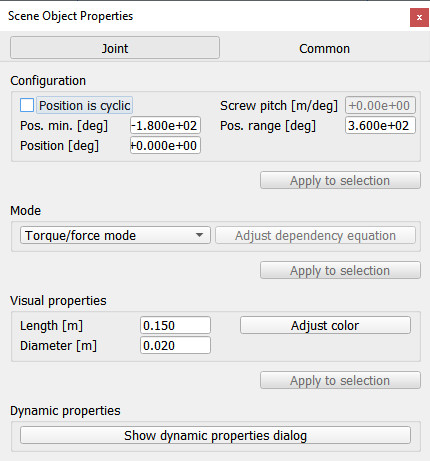
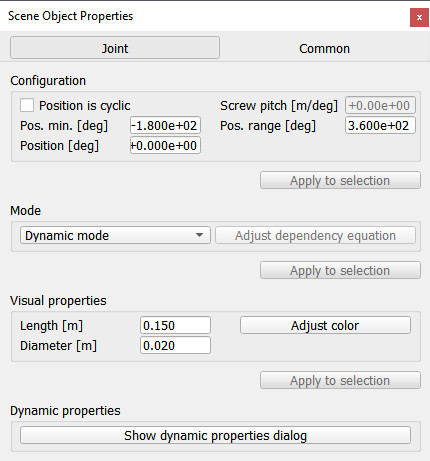
joint mode: passive --> kinematic, force/torque --> dynamic

Changed region(s): [[0.0605, 0.4859, 0.3326, 0.5466], [0.0302, 0.2126, 0.3023, 0.243]]

diff --git a/en/jointDescription.htm b/en/jointDescription.htm
@@ -20,7 +20,9 @@
 <h1>Joint types and operation</h1>
 
 
-<p>Compared to another <a href="objects.htm">object</a>, a <a href="joints.htm">joint</a> has two reference frames (visible only if the joint is selected). The first one is the regular reference frame that is fixed and that other objects also have. The second reference frame is not fixed, and will move relative to the first reference frame depending on the joint position (or joint value) that defines its configuration.</p>
+<p>A joint is used to allow for a relative movement between its parent and its children. When a parent-child relationship is built between a joint and an object, the object is attached to the joint's second reference frame, thus, a change of the joint's configuration (intrinsic position) will directly be reflected onto its children. New joints can be added to a <a href="scenes.htm">scene</a> with [Menu bar --&gt; Add --&gt; Joints].
+</p>
+
 
 <br>
 <h2>
@@ -33,16 +35,16 @@
 <p class=imageLabel>[Revolute joint, prismatic joint, screw and spherical joint]</p>
 <br>
 
-<li><strong>Revolute joints</strong>: revolute joints have one DoF and are used to describe rotational movements (with 1 DoF) between objects. Their configuration is defined by one value that represents the amount of rotation about their first reference frame's z-axis. They can be used as passive joints, or as active joints (motors).<br>
+<li><strong>Revolute joints</strong>: revolute joints have one DoF and are used to describe rotational movements (with 1 DoF) between objects. Their configuration is defined by one value that represents the amount of rotation about their first reference frame's z-axis<br>
 </li>
 
-<li><strong>Prismatic joints</strong>: prismatic joints have one DoF and are used to describe translational movements between objects. Their configuration is defined by one value that represents the amount of translation along their first reference frame's z-axis. They can be used as passive joints, or as active joints (motors).<br>
+<li><strong>Prismatic joints</strong>: prismatic joints have one DoF and are used to describe translational movements between objects. Their configuration is defined by one value that represents the amount of translation along their first reference frame's z-axis<br>
 </li>
 
-<li><strong>Screws</strong>: screws, which can be seen as a combination of revolute joints and prismatic joints (with linked values), have one DoF and are used to describe a movement similar to a screw. A pitch parameter defines the amount of translation for a given amount of rotation. A screw configuration is defined by one value that represents the amount of rotation about its first reference frame's z-axis. Screws can be used as passive joints, or as active joints (motors).<br>
+<li><strong>Screws</strong>: screws, which can be seen as a combination of revolute joints and prismatic joints (with linked values), have one DoF and are used to describe a movement similar to a screw. A pitch parameter defines the amount of translation for a given amount of rotation. A screw configuration is defined by one value that represents the amount of rotation about its first reference frame's z-axis<br>
 </li>
 
-<li><strong>Spherical joints</strong>: spherical joints have three DoF and are used to describe rotational movements (with 3 DoF) between objects. Their configuration is defined by three values that represent the amount of rotation around their first reference frame's x-, y- and z-axis. The three values that define a spherical joint's configuration are specified as <a href="eulerAngles.htm">Euler angles</a>. In some situations, a spherical joint can be thought of as 3 concurrent and orthogonal to each other joints, that are parented in a hierarchy-chain. The analogy is however only valid while all revolute joints keep an orientation distinct from any of the two others: indeed, should two joints come close to coincide, a singular situation might appear and the mechanism might lose one DoF. This does never happen with spherical joints that are internally handled to avoid this kind of situation. Spherical joints are always passive joints, and cannot act as motors. </li>
+<li><strong>Spherical joints</strong>: spherical joints have three DoF and are used to describe rotational movements (with 3 DoF) between objects. In some situations, a spherical joint can be thought of as 3 concurrent and orthogonal to each other joints, that are parented in a hierarchy-chain. The analogy is however only valid while all revolute joints keep an orientation distinct from any of the two others: indeed, should two joints come close to coincide, a singular situation might appear and the mechanism might lose one DoF. This does never happen with spherical joints that are internally handled to avoid this kind of situation </li>
 
 <p align=center><img src="images/jointDescription2.jpg"></p>
 <p class=imageLabel>[Two equivalent mechanisms (in this configuration): spherical joint (left) and 3 revolute joints (right)]</p>
@@ -53,9 +55,6 @@
 <p class=imageLabel>[Two non-equivalent mechanisms: the right configuration is close to a singularity]</p>
 <br>
 
-<p>A joint is used to allow for a relative movement between its parent and its children. When a parent-child relationship is built between a joint and an object, the object is attached to the joint's second reference frame, thus, a change of the joint's configuration (intrinsic position) will directly be reflected onto its children. New joints can be added to a <a href="scenes.htm">scene</a> with [Menu bar --&gt; Add --&gt; Joints].
-</p>
-
 <br>
 <h2>
 <a name="modes"></a>Joint modes
@@ -64,13 +63,13 @@
 <p>A joint can be in one of following modes:
 </p>
 
-<li><strong>Passive mode</strong>: in this mode the joint is not directly controlled and will act as a fixed link. The user can however change the joint's position with appropriate <a href="apisOverview.htm">API</a> function calls (e.g. <a href="regularApi/simSetJointPosition.htm">sim.setJointPositon</a> or <a href="regularApi/simSetObjectChildPose.htm">sim.setObjectChildPose</a>).<br>
+<li><strong>Kinematic mode</strong>: in this mode the joint is not directly controlled and will act as a fixed link. The user can however change the joint's position with appropriate <a href="apisOverview.htm">API</a> function calls (e.g. <a href="regularApi/simSetJointPosition.htm">sim.setJointPositon</a> or <a href="regularApi/simSetObjectChildPose.htm">sim.setObjectChildPose</a>).<br>
 </li>
 
 <li><strong>Dependent mode</strong>: in this mode, the joint position is directly linked (dependent) to another joint position through a linear equation.<br>
 </li>
 
-<li><strong>Torque or force mode</strong>: in this mode, the joint is simulated by the <a href="dynamicsModule.htm">dynamics module</a>, if and only if it is dynamically enabled (refer to the section on <a href="designingDynamicSimulations.htm">designing dynamic simulations</a> for more information). When dynamically enabled, a joint can be free or controlled in Force/torque, in velocity or in position. Screws cannot be operated in torque or force mode (however it is possible to obtain a similar behaviour by linking a revolute and prismatic joint programmatically), and spherical joints can only be free in torque or force mode.
+<li><strong>Dynamic mode</strong>: in this mode, the joint is handled by the <a href="dynamicsModule.htm">dynamics module</a>, if it forms with its connecting items a valid configuration. When dynamically enabled, a joint can be free or controlled in force/torque, in velocity or in position. 
 </li>
 
 <li class=tabTab>When the joint motor is disabled, the joint is free and only constrained by its limits.
@@ -81,7 +80,7 @@
 
 <li class=tabTab>When the joint motor is enabled and the control loop is enabled, then the user has 3 control modes available:</li>
 
-<li class=fourTabs><em>Custom control</em>: a <a href="jointCallbackFunctions.htm">joint callback function</a> will be in charge of controlling the dynamic behaviour of the joint, allowing you to control the joint with any imaginable algorithm. </li>
+<li class=fourTabs><em>Custom control</em>: a <a href="jointCallbackFunctions.htm">joint callback function</a> will be in charge of controlling the dynamic behaviour of the joint, allowing to control the joint with any desired algorithm. </li>
 
 
 <li class=fourTabs><em>Position control (PID)</em>: the joint will be controlled in position via a PID controller that will adjust the joint velocity in following way (the <em>&#916;t</em> divider is to keep the controller independent of the selected controller time step): </li>
@@ -105,12 +104,10 @@
 
 <p>First, the approach to take for controlling a joint will depend on the joint mode:</p>
 
-<li><a href="#nonForceTorqueMode">The joint is not in force/torque mode</a>.</li>
-<li><a href="#forceTorqueMode">The joint operates in force/torque mode</a>.</li>
+<li><a href="#kinematic">The joint is in kinematic mode</a></li>
+<li><a href="#dynamic">The joint is in dynamic mode</a></li>
 
-<p>The differentiation comes from the fact that a joint that operates in force/torque mode will be handled by the physics engine. And the physics engine will perform by default 10 times more calculation steps than the simulation loop: the simulation loop runs at 20Hz (in simulation time), while the physics engine runs at 200Hz (also in simulation time). That default behaviour can entirely be configured if required.</p>
-
-<p><strong><a name="nonForceTorqueMode"></a>If the joint is not in force/torque mode</strong>: if the joint is not in force/torque mode, then you can directly (and instantaneously) set its position via the <a href="regularApi/simSetJointPosition.htm">sim.setJointPosition</a> API function. You can do this from a <a href="childScripts.htm">child script</a>, from a <a href="plugins.htm">plugin</a>, from a <a href="rosInterfaces.htm">ROS</a> node, or from a <a href="remoteApiOverview.htm">remote API</a> client. If you do this from a child script, then it should be done inside of the <em>actuation section</em> of the <a href="childScripts.htm">child script</a>.</p>
+<p><strong><a name="nonForceTorqueMode"></a><a name="kinematic"></a>The joint is in kinematic mode</strong>: in this situation, the joint can directly (and instantaneously) be controlled, i.e. set it to a desired position via <a href="regularApi/simSetJointPosition.htm">sim.setJointPosition</a>. This can be done from a <a href="childScripts.htm">child script</a>, from a <a href="plugins.htm">plugin</a>, from a <a href="rosInterfaces.htm">ROS</a> node, or from a <a href="remoteApiOverview.htm">remote API</a> client. If done from a child script, then it should be done inside of the <em>actuation section</em> of the <a href="childScripts.htm">child script</a>.</p>
 
 <p>In following threaded <a href="childScripts.htm">child script</a> example, the joint is controlled <em><strong>loosely</strong></em>  in position, and there is no synchronization with the simulation loop:</p>
 
@@ -146,7 +143,7 @@ sim.setThreadAutomaticSwitch(initialForbidLevel) -- Restore the automatic thread
 -- In above code, a new joint position is applied in each simulation step
 </code>
 
-<p>When you try to control a joint that is not in force/torque mode from an external application (e.g. via the <a href="remoteApiOverview.htm">remote API</a> or <a href="rosInterfaces.htm">ROS</a>), then the external controller will run asynchronously to CoppeliaSim (i.e. similar to the non-synchronized code of a threaded <a href="childScripts.htm">child script</a>). This is fine most of the time for <strong><em>loose</em></strong> control, but if you wish to control the position of the joint <strong><em>precisely</em></strong> in each simulation loop, you will have to run CoppeliaSim in stepped mode, and the external controller (e.g. the remote API client) will have to trigger each simulation step explicitely. </p>
+<p>When controlling a joint that is kinematic mode from an external application (e.g. via the <a href="remoteApiOverview.htm">remote API</a> or <a href="rosInterfaces.htm">ROS</a>), then the external controller will run asynchronously to CoppeliaSim (i.e. similar to the non-synchronized code of a threaded <a href="childScripts.htm">child script</a>). This is fine most of the time for <strong><em>loose</em></strong> control, but for <em><strong>precise</strong></em> control (in each simulation loop), CoppeliaSim should run in stepped mode, and the external controller (e.g. the remote API client) will have to trigger each simulation step explicitely. </p>
 <p>Following illustrates a Python <a href="zmqRemoteApiOverview.htm">ZeroMQ remote API</a> client that does this:</p>
 
 <code class="hljs language-python coppelia-zmq-remote-api-client">
@@ -159,16 +156,16 @@ client.step() # next simulation step executes. Above commands will be applied
 sim.setJointPosition(jointHandle,0) # set the joint to 0 degrees
 </code>
 
-<p><strong><a name="forceTorqueMode"></a>If the joint is in force/torque mode</strong>: if the joint operates in force/torque mode and is <a href="designingDynamicSimulations.htm#dynamicallyEnabledJoints">dynamically enabled</a>, then it will be indirectly handled by the physics engine. If your joint's motor is not enabled, then your joint is not controlled (i.e. it will be free). Otherwise, your joint can be in following two dynamic modes:</p>
+<p><strong><a name="forceTorqueMode"></a><a name="dynamic"></a>The joint is in dynamic mode</strong>: in this situation, and if additionally the joint is <a href="designingDynamicSimulations.htm#dynamicallyEnabledJoints">dynamically enabled</a>, then it will be indirectly handled by the physics engine. If the joint's motor is not enabled, then it is free or passive. Otherwise, the joint can operate in following two manners:</p>
 
-<li><a href="#controlLoopDisabled">The joint's motor is enabled, but the control loop is disabled</a>. Use this mode when you want to <strong><em>precisely</em></strong> custom control your joint from an external application (e.g. force/torque control, PID, etc.). Use this mode also, when you want to <em><strong>loosely</strong></em>  control your joint in force/torque mode, or for velocity control (e.g. robot wheel motors).</li>
-<li><a href="#controlLoopEnabled">The joint's motor is enabled, and the control loop is enabled</a>. Use this mode when your joint needs to act as a spring/damper, or if you want to <strong><em>precisely</em></strong> custom control your joint from within CoppeliaSim, or if you want to <em><strong>loosely</strong></em>  control your joint in position control from an external application.</li>
+<li><a href="#controlLoopDisabled">The joint's motor is enabled, but the control loop is disabled</a>. This is used when wanting  to <strong><em>precisely</em></strong> custom control a joint from an external application (e.g. force/torque control, PID, etc.). This method is also used, when wanting to <em><strong>loosely</strong></em>  control a joint in force/torque, or for velocity control (e.g. robot wheel motors).</li>
+<li><a href="#controlLoopEnabled">The joint's motor is enabled, and the control loop is enabled</a>. This is used when the joint needs to act as a spring/damper, or when wanting to <strong><em>precisely</em></strong> custom control the joint from within CoppeliaSim, or when wanting to <em><strong>loosely</strong></em>  control a joint in position control from an external application.</li>
 
-<p><a name="controlLoopDisabled"></a>If your <strong>joint's motor is enabled, but the control loop is disabled</strong>, then the physics engine will apply the specified <strong>Maximum force/torque</strong>, and accelerate the joint until the <strong>target velocity</strong> is reached. If the load is small and/or the maximum force/torque high, that target velocity will be reached quickly. Otherwise, it will take some time, or, if the force/torque is not large enough, the target velocity will never be reached. You can programmatically adjust the target velocity with <a href="regularApi/simSetJointTargetVelocity.htm">sim.setJointTargetVelocity</a>, and the maximum force/torque with <a href="regularApi/simSetJointTargetForce.htm">sim.setJointTargetForce</a>. You should be very careful before writing  a <strong><em>precise</em></strong> joint controller for a joint in force/torque mode from a <a href="childScripts.htm">child script</a> for following reason:</p>
+<p><a name="controlLoopDisabled"></a>If the <strong>joint motor is enabled, but the control loop is disabled</strong>, then the physics engine will apply the specified <strong>Maximum force/torque</strong>, and accelerate the joint until the <strong>target velocity</strong> is reached. If the load is small and/or the maximum force/torque high, that target velocity will be reached quickly. Otherwise, it will take some time, or, if the force/torque is not large enough, the target velocity will never be reached. The target velocity can programmatically be adjusted with <a href="regularApi/simSetJointTargetVelocity.htm">sim.setJointTargetVelocity</a>, and the maximum force/torque with <a href="regularApi/simSetJointTargetForce.htm">sim.setJointTargetForce</a>. When writing a <strong><em>precise</em></strong> joint controller for a joint in dynamic mode from a <a href="childScripts.htm">child script</a>, beware of following:</p>
 
-<p>By default, the simulation loop runs with a time step of 50ms (in simulation time). But the physics engine will run with a time step of 5ms, i.e. 10 times more often. A child script will be called in each simulation step, but not in each physics engine calculation step. This means that if you control a joint from a child script in a <em>regular way</em>, you will only be able to provide new control values once for 10 physics engine calculation steps: you will be missing 9 steps. One way to overcome this would be to change the default <a href="simulationPropertiesDialog.htm">simulation settings</a> and to specify a simulation <strong>time step</strong> of 5ms, instead of 50ms. This works fine, but remember that all other calculations (e.g. <a href="visionSensors.htm">vision sensors</a>, <a href="proximitySensors.htm">proximity sensors</a>, <a href="distanceCalculation.htm">distance calculations</a>, <a href="kinematics.htm">IK</a>, etc.) will also run 10 times more often, and finally slow down your simulation (most of the time you won't need such a high refresh rate for the other calculation modules. But the physics engine requires such a high refresh rate). Another, much better option, would be to use a <a href="jointCallbackFunctions.htm">joint callback function</a> (or a <a href="dynCallbackFunctions.htm">dynamics callback function</a>) as will be explained further down.</p>
+<p>By default, the simulation loop runs with a time step of 50ms (in simulation time). But the physics engine will run with a time step of 5ms, i.e. 10 times more often. A child script will be called in each simulation step, but not in each physics engine calculation step. This means that if a joint is controlled from a child script in a <em>regular way</em>, the control algorithm will only be able to provide new control values once for 10 physics engine calculation steps: 9 out of 10 steps will be missed. One way to overcome this would be to change the default <a href="simulationPropertiesDialog.htm">simulation settings</a> and to specify a simulation <strong>time step</strong> of 5ms, instead of 50ms. This works fine, one should remember that all other calculations (e.g. <a href="visionSensors.htm">vision sensors</a>, <a href="proximitySensors.htm">proximity sensors</a>, <a href="distanceCalculation.htm">distance calculations</a>, <a href="kinematics.htm">IK</a>, etc.) will also run 10 times more often, and finally slow down your simulation. Another, much better option, would be to use a <a href="jointCallbackFunctions.htm">joint callback function</a> (or a <a href="dynCallbackFunctions.htm">dynamics callback function</a>) as will be explained further down.</p>
 
-<p>If, one the other hand, you want to run a <em><strong>precise</strong></em> and regular joint controller externally (e.g. from a <a href="remoteApiOverview.htm">remote API</a> client or a <a href="rosInterfaces.htm">ROS</a> node), then you have no other option than to set the simulation loop to the same rate as the physics engine rate, then run CoppeliaSim in stepped mode, and the external controller (e.g. the remote API client) will have to trigger each simulation step explicitely. </p>
+<p>If, one the other hand, one wants to run a <em><strong>precise</strong></em> and regular joint controller externally (e.g. from a <a href="remoteApiOverview.htm">remote API</a> client or a <a href="rosInterfaces.htm">ROS</a> node), then there is no other option than to set the simulation loop to the same rate as the physics engine rate, then run CoppeliaSim in stepped mode, and the external controller (e.g. the remote API client) will have to trigger each simulation step explicitely. </p>
 
 <p>Following illustrates a Python <a href="zmqRemoteApiOverview.htm">ZeroMQ remote API</a> client that does this:</p>
 
@@ -185,9 +182,9 @@ sim.setJointTargetForce(jointHandle,2.0,false)
 sim.setJointTargetVelocity(jointHandle,180*3.1415/180) # set the joint target velocity
 </code>
 
-<p><a name="controlLoopEnabled"></a>If your <strong>joint's motor is enabled, and the control loop is also enabled</strong>, then the physics engine will handle the joint according to the setting: your joint can operate in position control (i.e. PID control), in a spring/damper mode, or in custom control. PID and spring/damper parameters can be updated from a <a href="childScripts.htm">child script</a>, from a <a href="remoteApiOverview.htm">remote API</a> client or from a <a href="rosInterfaces.htm">ROS</a> node. Refer to <a href="objectParameterIDs.htm">object parameter IDs</a> 2002-2004, and 2018-2019. Desired target positions can be set with <a href="regularApi/simSetJointTargetPosition.htm">sim.setJointTargetPosition</a>. When you need a <em><strong>precise</strong></em> custom controller, then you should use a <a href="jointCallbackFunctions.htm">joint callback function</a> instead (or a <a href="dynCallbackFunctions.htm">dynamics callback function</a>).</p>
+<p><a name="controlLoopEnabled"></a>If the <strong>joint motor is enabled, and the control loop is also enabled</strong>, then the physics engine will handle the joint according to the setting: the joint can operate in position control (i.e. PID control), in a spring/damper mode, or in custom control. PID and spring/damper parameters can be updated from a <a href="childScripts.htm">child script</a>, from a <a href="remoteApiOverview.htm">remote API</a> client or from a <a href="rosInterfaces.htm">ROS</a> node. Refer to <a href="objectParameterIDs.htm">object parameter IDs</a> sim.jointfloatparam_pid_p, sim.jointfloatparam_pid_i, sim.jointfloatparam_pid_d, and sim.jointfloatparam_kc_k and sim.jointfloatparam_kc_c. Desired target positions can be set with <a href="regularApi/simSetJointTargetPosition.htm">sim.setJointTargetPosition</a>. When in need for a <em><strong>precise</strong></em> custom controller, then a <a href="jointCallbackFunctions.htm">joint callback function</a> should be used instead.</p>
 
-<p>Finally, if you need a precise PID or custom controller that is implemented in an external application, you need to make sure that the simulation step is the same as the physics engine calculation step: by default, CoppeliaSim's simulation loop runs at 20Hz (in simulation time), while the physics engine runs at 200Hz. You can adjust the simulation step size in the <a href="simulationPropertiesDialog.htm">simulation setting</a>. You also need to make sure you run CoppeliaSim in stepped mode. </p>
+<p>Finally, when in need of a precise PID or custom controller that is implemented in an external application, one needs to make sure that the simulation step is the same as the physics engine calculation step: by default, CoppeliaSim's simulation loop runs at 20Hz (in simulation time), while the physics engine runs at 200Hz. The simulation step size can be adjusted in the <a href="simulationPropertiesDialog.htm">simulation setting</a>. And CoppeliaSim should run in stepped mode. </p>
 <p>Following illustrates a Python <a href="zmqRemoteApiOverview.htm">ZeroMQ remote API</a> client that does this:</p>
 
 <code class="hljs language-python coppelia-zmq-remote-api-client">
@@ -200,7 +197,7 @@ client.step()
 sim.setJointTargetPosition(jointHandle,0)
 </code>
 
-<p>You can also have a remote API client provide control values for a custom joint controller implemented in a joint callback function, by providing values, for instance via signals, to that joint callback function. For example, from a Python <a href="zmqRemoteApiOverview.htm">ZeroMQ remote API</a> client:</p>
+<p>One can also have a remote API client provide control values for a custom joint controller implemented in a joint callback function, by providing values, for instance via signals, to that joint callback function. For example, from a Python <a href="zmqRemoteApiOverview.htm">ZeroMQ remote API</a> client:</p>
 
 <code class="hljs language-python coppelia-zmq-remote-api-client">
 client.setstepping(True)
@@ -210,7 +207,7 @@ sim.setFloatSignal("myDesiredTarget",90.0*3.1415/180.0)
 client.step()
 </code>
 
-<p>In above example, your joint callback function could fetch those two signals (with <a href="regularApi/simGetFloatSignal.htm">sim.getFloatSignal</a>) before doing the control.</p>
+<p>In above example, the joint callback function could fetch those two signals (with <a href="regularApi/simGetFloatSignal.htm">sim.getFloatSignal</a>) before doing the control.</p>
 
 
 <br>

diff --git a/en/xmlFormat.htm b/en/xmlFormat.htm
@@ -124,21 +124,21 @@
 
 
 
-<p>Here a revolute joint, in passive mode:</p>
-<pre class=lightGreyBox>&lt;joint&gt;<br>  &lt;common&gt;<br>    ... <font color="green">(refer to generated files for details)</font><br>  &lt;/common&gt;<br>  &lt;type&gt;revolute&lt;/type&gt; <font color="green">(can be revolute, prismatic or spherical)</font><br>  &lt;mode&gt;passive&lt;/mode&gt; <font color="green">(can be passive, dependent or force)</font><br>  &lt;minPosition&gt;-180.0&lt;/minPosition&gt;<br>  &lt;range&gt;360.0&lt;/range&gt;<br>  &lt;position&gt;0.0&lt;/position&gt;<br>  &lt;switches&gt;<br>    &lt;cyclic&gt;true&lt;/cyclic&gt;<br>  &lt;/switches&gt;<br>  ... <font color="green">(refer to generated files for details)</font><br>&lt;/joint&gt;</pre>
+<p>Here a revolute joint, in kinematic mode:</p>
+<pre class=lightGreyBox>&lt;joint&gt;<br>  &lt;common&gt;<br>    ... <font color="green">(refer to generated files for details)</font><br>  &lt;/common&gt;<br>  &lt;type&gt;revolute&lt;/type&gt; <font color="green">(can be revolute, prismatic or spherical)</font><br>  &lt;mode&gt;kinematic&lt;/mode&gt; <font color="green">(can be kinematic, dependent or dynamic)</font><br>  &lt;minPosition&gt;-180.0&lt;/minPosition&gt;<br>  &lt;range&gt;360.0&lt;/range&gt;<br>  &lt;position&gt;0.0&lt;/position&gt;<br>  &lt;switches&gt;<br>    &lt;cyclic&gt;true&lt;/cyclic&gt;<br>  &lt;/switches&gt;<br>  ... <font color="green">(refer to generated files for details)</font><br>&lt;/joint&gt;</pre>
 
 
 
 
-<p>Here a revolute joint, in force/torque mode, motor disabled:</p>
-<pre class=lightGreyBox>&lt;joint&gt;<br>  &lt;common&gt;<br>    ... <font color="green">(refer to generated files for details)</font><br>  &lt;/common&gt;<br>  &lt;type&gt;revolute&lt;/type&gt; <font color="green">(can be revolute, prismatic or spherical)</font><br>  &lt;mode&gt;force&lt;/mode&gt; <font color="green">(can be passive, ik, dependent or force)</font><br>  &lt;minPosition&gt;-180.0&lt;/minPosition&gt;<br>  &lt;range&gt;360.0&lt;/range&gt;<br>  &lt;position&gt;0.0&lt;/position&gt;<br>  &lt;switches&gt;<br>    &lt;cyclic&gt;true&lt;/cyclic&gt;<br>  &lt;/switches&gt;
+<p>Here a revolute joint, in dynamic mode, motor disabled:</p>
+<pre class=lightGreyBox>&lt;joint&gt;<br>  &lt;common&gt;<br>    ... <font color="green">(refer to generated files for details)</font><br>  &lt;/common&gt;<br>  &lt;type&gt;revolute&lt;/type&gt; <font color="green">(can be revolute, prismatic or spherical)</font><br>  &lt;mode&gt;dynamic&lt;/mode&gt; <font color="green">(can be kinematic, dependent or dynamic)</font><br>  &lt;minPosition&gt;-180.0&lt;/minPosition&gt;<br>  &lt;range&gt;360.0&lt;/range&gt;<br>  &lt;position&gt;0.0&lt;/position&gt;<br>  &lt;switches&gt;<br>    &lt;cyclic&gt;true&lt;/cyclic&gt;<br>  &lt;/switches&gt;
   &lt;dynamics&gt;<br>    &lt;maxForce&gt;2.5&lt;/maxForce&gt;<br>    ... <font color="green">(refer to generated files for details)</font><br>    &lt;switches&gt;<br>      &lt;motorEnabled&gt;false&lt;/motorEnabled&gt;<br>      ... <font color="green">(refer to generated files for details)</font><br>    &lt;/switches&gt;<br>    &lt;engines&gt;<br>      ... <font color="green">(refer to generated files for details)</font><br>    &lt;/engines&gt;<br>  &lt;/dynamics&gt;<br>&lt;/joint&gt;</pre>
 
 
 
 
-<p>Here a revolute joint, in force/torque mode, position controlled:</p>
-<pre class=lightGreyBox>&lt;joint&gt;<br>  &lt;common&gt;<br>    ... <font color="green">(refer to generated files for details)</font><br>  &lt;/common&gt;<br>  &lt;type&gt;revolute&lt;/type&gt; <font color="green">(can be revolute, prismatic or spherical)</font><br>  &lt;mode&gt;force&lt;/mode&gt; <font color="green">(can be passive, ik, dependent or force)</font><br>  &lt;minPosition&gt;-180.0&lt;/minPosition&gt;<br>  &lt;range&gt;360.0&lt;/range&gt;<br>  &lt;position&gt;0.0&lt;/position&gt;<br>  &lt;switches&gt;<br>    &lt;cyclic&gt;true&lt;/cyclic&gt;<br>  &lt;/switches&gt;
+<p>Here a revolute joint, in dynamic mode, position controlled:</p>
+<pre class=lightGreyBox>&lt;joint&gt;<br>  &lt;common&gt;<br>    ... <font color="green">(refer to generated files for details)</font><br>  &lt;/common&gt;<br>  &lt;type&gt;revolute&lt;/type&gt; <font color="green">(can be revolute, prismatic or spherical)</font><br>  &lt;mode&gt;dynamic&lt;/mode&gt; <font color="green">(can be kinematic, dependent or dynamic)</font><br>  &lt;minPosition&gt;-180.0&lt;/minPosition&gt;<br>  &lt;range&gt;360.0&lt;/range&gt;<br>  &lt;position&gt;0.0&lt;/position&gt;<br>  &lt;switches&gt;<br>    &lt;cyclic&gt;true&lt;/cyclic&gt;<br>  &lt;/switches&gt;
   &lt;dynamics&gt;<br>    &lt;maxForce&gt;2.5&lt;/maxForce&gt;<br>    &lt;upperVelocityLimit&gt;180&lt;/upperVelocityLimit&gt;<br>    &lt;targetPosition&gt;0.0&lt;/targetPosition&gt;<br>    &lt;pidValues&gt;0.1 0.0 0.0&lt;/pidValues&gt;<br>    ... <font color="green">(refer to generated files for details)</font><br>    &lt;switches&gt;<br>      &lt;motorEnabled&gt;false&lt;/motorEnabled&gt;<br>      &lt;controlLoopEnabled&gt;true&lt;/controlLoopEnabled&gt;<br>      ... <font color="green">(refer to generated files for details)</font><br>    &lt;/switches&gt;<br>    &lt;engines&gt;<br>      ... <font color="green">(refer to generated files for details)</font><br>    &lt;/engines&gt;<br>  &lt;/dynamics&gt;<br>&lt;/joint&gt;</pre>
 
 

diff --git a/en/primitiveShapes.htm b/en/primitiveShapes.htm
@@ -19,11 +19,11 @@
 
 <h1>Primitive shapes</h1>
 
-<p>Next to <a href="importExport.htm">importing meshes</a> from an external file, <a href="shapes.htm">shapes</a> can also directly be created inside CoppeliaSim by selecting [Menu bar --&gt; Add --&gt; Primitive shape]. The following 5 primitive shapes are supported:
+<p>Next to <a href="importExport.htm">importing meshes</a> from an external file, <a href="shapes.htm">shapes</a> can also directly be created inside CoppeliaSim by selecting [Menu bar --&gt; Add --&gt; Primitive shape]:
 </p>
 
 <p align=center><img src="images/primitives1.jpg"></p>
-<p class=imageLabel>[Primitive shapes: plane, disc, cuboid, sphere and cylinder]</p>
+<p class=imageLabel>[Primitive shapes]</p>
 <br>
 
 <p>
@@ -37,18 +37,8 @@ Geometric parameters of the primitive shapes can be adjusted in the primitive sh
 <li><strong>X- / Y- / Z-size</strong>: size along the world reference frame's x- / y- / z-axis.
 </li>
 
-<li><strong>X- / Y- / Z-Subdivisions</strong>: number of elements along the world reference frame's x- / y- / z-axis (*)
+<li><strong>X- / Y- / Z-Subdivisions</strong>: number of elements along the world reference frame's x- / y- / z-axis
 </li>
-
-<li><strong>Sides</strong>: number of sides of a cylinder, disc or sphere.
-</li>
-
-<li><strong>Faces</strong>: number of faces of a cylinder(*) or sphere.
-</li>
-
-<li><strong>Disc subdivisions</strong>: number of disc subdivisions (disc or cylinder) (*)
-</li>
-
 
 <li><strong>Smooth shaded</strong>: whether the shape should appear smooth (Gouraud shading) or sharp.
 </li>
@@ -57,26 +47,30 @@ Geometric parameters of the primitive shapes can be adjusted in the primitive sh
 <li><strong>Open ends</strong>: whether the cylinder has open ends.
 </li>
 
-<li><strong>Cone</strong>: indicates that a cone is desired instead of a cylinder.
+<li><strong>Sides</strong>: number of sides of a cylinder, disc or sphere.
 </li>
 
-<li><strong>Create dynamic and respondable shape</strong>: if selected, the generated shape will be <a href="designingDynamicSimulations.htm#staticAndRespondable">dynamic and respondable</a>. It will not not be <a href="collidableObjects.htm">collidable</a>, not <a href="measurableObjects.htm">measurable</a> and not <a href="detectableObjects.htm">detectable</a>, and have a slight blue color, in order to quickly recognize it. <br>
+<li><strong>Face subdivisions</strong>: number of face subdivisions of a cylinder.
 </li>
 
-<li><strong>Create pure shape</strong>: if selected, a <a href="shapes.htm">pure shape</a> will be generated that performs much better and faster during <a href="dynamicsModule.htm">dynamic calculations</a>. <br>
+<li><strong>Disc subdivisions</strong>: number of disc subdivisions (disc or cylinder)
+</li>
+
+
+<li><strong>Dynamic and respondable</strong>: if selected, the generated shape will be dynamically enabled, i.e. <a href="designingDynamicSimulations.htm#staticAndRespondable">dynamic and respondable</a>.  Those properties can be changed at a later time too.<br>
 </li>
 
 <li><strong>Material density</strong>: the density of the material.
 </li>
 
-<p>(*) the subdivisions and faces properties cannot directly be seen and have not a direct effect. Following shows two similar shapes with different subdivision parameters:
+<p>The subdivisions and faces properties cannot directly be seen and have not a direct effect. Following shows two similar shapes with different subdivision parameters:
 </p>
 
 <p align=center><img src="images/primitives3.jpg"></p>
 <p class=imageLabel>[Two cuboids with different subdivision parameters (as seen in the <a href="triangleEditMode.htm">triangle edit mode</a>)]</p>
 <br>
 
-<p>Shapes with a higher subdivision count reflect lighting in a more differentiated way. See the <a href="triangleEditMode.htm">triangle edit mode</a> and the<strong> Subdivide largest triangles</strong> option for more details.
+<p>Shapes with a higher subdivision count can reflect light in a more differentiated way, depending on the selected renderer. See the <a href="triangleEditMode.htm">triangle edit mode</a> and the<strong> Subdivide largest triangles</strong> option for more details.
 </p>
 
 <p>Colors and other visual attributes should be adjusted in the <a href="shapeProperties.htm">shape properties</a>. The shape mesh can also be adjusted and edited in the <a href="shapeEditModes.htm">shape edit modes</a>, or in the <a href="geometryDialog.htm">geometry dialog</a>.</p>

diff --git a/en/jointProperties.htm b/en/jointProperties.htm
@@ -35,40 +35,37 @@
 <br>
 
 
-<li><strong>Position is cyclic</strong>: indicates whether the joint position is cyclic (varies between -180 and +180 degrees without limitation). Only revolute joints can be cyclic.<br>
+<li><strong>Position is cyclic</strong>: indicates whether the joint position is cyclic (varies between -180 and +180 degrees without limitation). Only revolute joints can be cyclic<br>
 </li>
 
-<li><strong>Screw pitch</strong>: the pitch value of the joint. This property becomes available only with the Revolute/Screw-type of joint, when the <strong>Position is cyclic</strong>-checkbox is left unchecked.<br>
+<li><strong>Screw pitch</strong>: the pitch value of the joint. This property becomes available only with the Revolute/Screw-type of joint, when the <strong>Position is cyclic</strong>-checkbox is left unchecked<br>
 </li>
 
-<li><strong>Position minimum</strong>: the minimum allowed value of a non-cyclic revolute joint, a screw, or a prismatic joint.<br>
+<li><strong>Position minimum</strong>: the minimum allowed value of a non-cyclic revolute joint, a screw, or a prismatic joint<br>
 </li>
 
-<li><strong>Position range</strong>: the variation range of a non-cyclic revolute joint, a screw or a prismatic joint. A position of such a joint is limited between <strong>Position minimum</strong> and <strong>Position minimum</strong>+<strong>Position range</strong>.
+<li><strong>Position range</strong>: the variation range of a non-cyclic revolute joint, a screw or a prismatic joint. A position of such a joint is limited between <strong>Position minimum</strong> and <strong>Position minimum</strong>+<strong>Position range</strong></li>
+
+<li><strong>Position</strong>: intrinsic joint position of a revolute joint, a prismatic joint, or a screw<br>
 </li>
 
-<li><strong>Position</strong>: intrinsic joint position of a revolute joint, a prismatic joint, or a screw.<br>
+<li><strong>Mode</strong>: a joint can be in kinematic, dependent, or dynamic mode</li>
+
+<li><strong>Adjust dependency equation</strong>: if the joint is in dependent mode, then a linear equation can be specified that links the joint to another one. The values in this section of the dialog are all indicated in meters or radians</li>
+
+
+
+
+
+<li><strong>Length</strong>: length of the joint. Has no functional meaning
 </li>
 
-<li><strong>Mode</strong>: the <a href="jointDescription.htm">control mode</a> of the joint. A joint can be in passive mode, in dependent mode, or in torque/force mode. <br>
+<li><strong>Diameter</strong>: diameter of the joint. Has no functional meaning
 </li>
 
-<li><strong>Adjust dependency equation</strong>: if the joint is in dependent mode, then a linear equation can be specified that links the joint to another one. The values in this section of the dialog are all indicated in meters or radians.</li>
+<li><strong>Adjust color</strong>: allows adjusting the color of the joint</li>
 
-
-
-
-
-<li><strong>Length</strong>: length of the joint. Has no functional meaning.
-</li>
-
-<li><strong>Diameter</strong>: diameter of the joint. Has no functional meaning.
-</li>
-
-<li><strong>Adjust color</strong>: allows adjusting the color of the joint.<br>
-</li>
-
-<li><strong>Show dynamic properties dialog</strong>: toggles the <a href="jointDynamicsProperties.htm">joint dynamics properties</a> dialog. The joint dynamics dialog allows to adjust a joint's dynamic properties.</li>
+<li><strong>Show dynamic properties dialog</strong>: toggles the <a href="jointDynamicsProperties.htm">joint dynamics properties</a> dialog. The joint dynamics dialog allows to adjust a joint's dynamic properties</li>
 
 
 <br>

diff --git a/en/inverseKinematicsTutorial.htm b/en/inverseKinematicsTutorial.htm
@@ -77,7 +77,7 @@
 <p align=center><img src="images/ikTut6.jpg"></p>
 <br>
 
-<p>Select all joints, then in the joint dialog, select <strong>passive mode</strong>, then click <strong>Apply to selection</strong>. Keep the joints selected, then open the <a href="commonPropertiesDialog.htm">object common properties</a> and in the<strong> Visibility layers</strong> section, disable layer 2 and enable layer 10, then click the related <strong>Apply to selection</strong> button. This just sent all joints to the visibility layer 10, effectively making them invisible. Have a look at the <a href="layerSelectionDialog.htm">layer selection dialog</a> if you wish to temporarily enable/disable some layers.</p>
+<p>Select all joints, then in the joint dialog, select <strong>kinematic mode</strong>, then click <strong>Apply to selection</strong>. Keep the joints selected, then open the <a href="commonPropertiesDialog.htm">object common properties</a> and in the<strong> Visibility layers</strong> section, disable layer 2 and enable layer 10, then click the related <strong>Apply to selection</strong> button. This just sent all joints to the visibility layer 10, effectively making them invisible. Have a look at the <a href="layerSelectionDialog.htm">layer selection dialog</a> if you wish to temporarily enable/disable some layers.</p>
 <p>In CoppeliaSim, an IK task requires specifying at least following elements:</p>
 <li>a kinematic chain described with a <em>tip</em> dummy and a <em>base</em> object. </li>
 <li>a <em>target</em> dummy that the <em>tip</em> dummy will be constrained to follow. </li>

diff --git a/en/versionInfo.htm b/en/versionInfo.htm
@@ -927,7 +927,7 @@ scenes/movementViaRemoteApi.ttt</em>, <em>scenes/pControllerViaRemoteApi.ttt</em
 <li>Added new <a href="apiConstants.htm#booleanParameters">bool parameters</a>: sim.boolparam_display_enabled, sim.boolparam_infotext_visible, sim.boolparam_statustext_open and sim.boolparam_fog_enabled</li>
 <li>Added new <a href="objectParameterIDs.htm">object parameter IDs</a></li>
 <li>Added a new <a href="visionSensors.htm">vision sensor</a> filter component: blob detection</li>
-<li>New <a href="joints.htm">joints</a> added to the <a href="scenes.htm">scene</a> are in Force/torque mode by default since this release</li>
+<li>New <a href="joints.htm">joints</a> added to the <a href="scenes.htm">scene</a> are in dynamic mode by default since this release</li>
 <li>Added two entries in the configuration file ("usrset.txt") that allows to correct display problems with specific graphic cards / systems: "renderingSurfaceVShift" and "renderingSurfaceVResize"</li>
 <li>New scene: "blobDetectionWithPickAndPlace.ttt"</li>
 <li>New scene: "youBotAndHanoiTower.ttt</li>
@@ -1205,7 +1205,7 @@ New scene: hovercraft.ttt </li>
 <br><h2>V-REP V2.4.12 (October 30th 2010)</h2> 
 
 <li>
-Corrected a small bug in the sim.moveToJointPositions API command applied to joints in force/torque mode </li>
+Corrected a small bug in the sim.moveToJointPositions API command applied to joints in dynamic mode </li>
 <li>
 New API commands: sim.setShapeColor, sim.resetDynamicObject and sim.setJointMode </li>
 <li>

diff --git a/en/designingDynamicSimulations.htm b/en/designingDynamicSimulations.htm
@@ -88,7 +88,7 @@
 <p class=imageLabel>[Example of valid <em>dynamically enabled joint</em> situations]</p>
 <br>
 
-<p>It is very important that you follow above guidelines in order to obtain dynamically enabled joints or force sensors. During simulation, if CoppeliaSim discovers force sensors that are not dynamically enabled, it will display a small warning icon next to its alias in the scene <a href="userInterface.htm#SceneHierarchy">hierarchy view</a>. The same happens to joints in force/torque mode, and that are not dynamically enabled.<br>
+<p>It is very important that you follow above guidelines in order to obtain dynamically enabled joints or force sensors. During simulation, if CoppeliaSim discovers force sensors that are not dynamically enabled, it will display a small warning icon next to its alias in the scene <a href="userInterface.htm#SceneHierarchy">hierarchy view</a>. The same happens to joints in dynamic mode, and that are not dynamically enabled.<br>
 </p>
 
 <p>Following are a few example situations where a joint won't be dynamically enabled:<br>

diff --git a/en/jointCallbackFunctions.htm b/en/jointCallbackFunctions.htm
@@ -47,7 +47,7 @@ function <strong>sysCall_jointCallback</strong>(inData)
     -- inData.targetVel : the joint target velocity (as set in the user interface)
     -- inData.maxForce : the joint maximum force/torque (as set in the user interface)
     -- inData.velUpperLimit : the joint velocity upper limit (as set in the user interface)
-    --<br>    -- Make sure that the joint is dynamically enabled, is in force/torque mode, motor enabled and<br>    -- control loop enabled, otherwise this function won't be called<br>
+    --<br>    -- Make sure that the joint is in dynamic mode, is dynamically enabled, motor enabled and<br>    -- control loop enabled, otherwise this function won't be called<br>
     if inData.first then
         PID_P=0.1
         PID_I=0

diff --git a/en/apiConstants.htm b/en/apiConstants.htm
@@ -1011,9 +1011,9 @@ See also the <a href="regularApi/simRunSimulator.htm">simRunSimulator</a> functi
 
 <div class="constantsGroup"><h2><a name="jointModes"></a>Joint modes</h2>
 <div class="constList">
-<div class="sim.jointmode_passive">sim.jointmode_passive</div>
+<div class="sim.jointmode_kinematic">sim.jointmode_kinematic</div>
 <div class="sim.jointmode_dependent">sim.jointmode_dependent</div>
-<div class="sim.jointmode_force">sim.jointmode_force</div>
+<div class="sim.jointmode_dynamic">sim.jointmode_dynamic</div>
 <br>
 See also the <a href="regularApi/simSetJointMode.htm">sim.setJointMode</a> function.
 </div>
